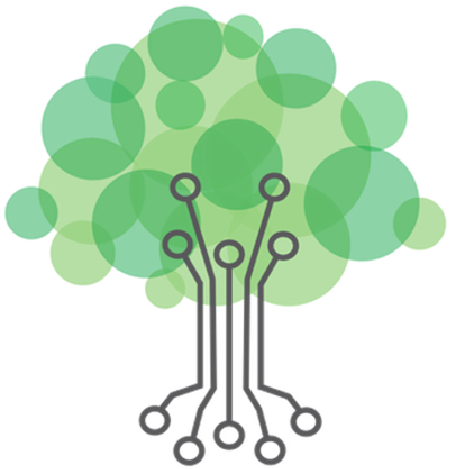
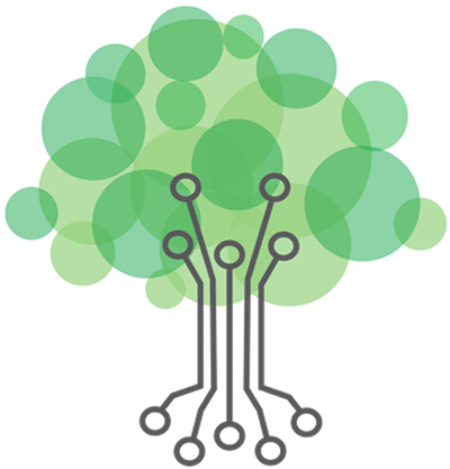
Search bar and Tree scales properly for large and medium screens

diff --git a/public_html/sites/all/themes/cstt_theme/css/customstyle.css b/public_html/sites/all/themes/cstt_theme/css/customstyle.css
@@ -32,11 +32,12 @@ body {
 }
 
 #cstt-description {
+	font-size: 30px
 }
 
 .descriptionalign {
 	text-align: center;
-	padding-top: 50px;
+	padding-top: 13px;
 	padding-bottom: 25px;
 	line-height: 1.3;
 	font-family: "Didot", "Sans-Sarif";
@@ -241,7 +242,7 @@ td {
   }
   .descriptionalign {
   	text-align: center;
-  	padding-top: 50px;
+  	padding-top: 13px;
   	font-size: 30px;
   	  }
   #cstt-icon {
@@ -307,11 +308,6 @@ td {
 
   #hiddenlink {
   	display: none;
-  }
-
-  #cstt-icon {
-  	max-height: 150px;
-  	max-width: 150px;
   }
 
   #about-side {
@@ -647,10 +643,40 @@ td {
 #centralsearch #edit-search-api-views-fulltext-wrapper {
 	margin:0px;
 	padding:0px;
-	width:500px;
-	border:none;
+	width:560px;
+	position:absolute;
+	left:0;
+	right:0;
+	margin: 0 auto;
+	margin-top: 180px;
+	z-index:1;
 }
 
-#centralsearch #form-item-search-api-views-fulltext {
-	border:none;
+#centralsearch #edit-search-api-views-fulltext {
+	border: 0px;
+	border-radius:0px;
+	height:43px;
+}
+
+
+@media all and (max-height:930px) {
+	#cstt-icon {
+		max-width:500px;
+		max-height:521px;
+	}
+	#centralsearch #edit-search-api-views-fulltext-wrapper {
+		margin-top:160px;
+		width:535px;
+	}
+	#centralsearch #edit-search-api-views-fulltext {
+		height:40px;
+	}
+
+}
+
+@media all and (max-height:671px) {
+	#cstt-icon {
+		max-width:450px;
+		max-height:469px;
+	}
 }

diff --git a/public_html/sites/all/themes/cstt_theme/templates/node--home.tpl.php b/public_html/sites/all/themes/cstt_theme/templates/node--home.tpl.php
@@ -12,15 +12,16 @@
 <body style="background-color:#E6F5EB;">
   <br>
 
+  <div class = "container-fluid">
   <div id="cstt-description" style="text-align:center; ">
     
       <h2 class = "descriptionalign" style="padding-bottom:0px; margin-bottom:-10px;" >Tailor your teaching with our <br>Computer Science Teaching Tips! </h2>
    
   </div>
 
-  <div style="text-align:center;margin-bottom:3%;position:relative;">
+  <div style="text-align:center;position:relative">
 
-    <div id = "centralsearch" style="position:absolute;max-width:500px;left:0;right:0;margin: 0 auto;margin-top:160px;z-index:2;">
+    <div id = "centralsearch" >
 
       <?php 
         $block = block_load('views','-exp-centralsearch-page');
@@ -29,10 +30,11 @@
       ?>     
 
     </div>
-
-    <img style = "margin:auto" alt="CS Teaching Tips Logo" src="/../public_html/images/tree1.png" id="cstt-icon"> 
+    <div style="height:70%">
+    <img style = "margin:auto; margin-top:0px height:100%" alt="CS Teaching Tips Logo" src="/../public_html/images/tree2.png" id="cstt-icon"> 
+    </div>
   </div>
-  
+  </div>
 
 </body>
 
